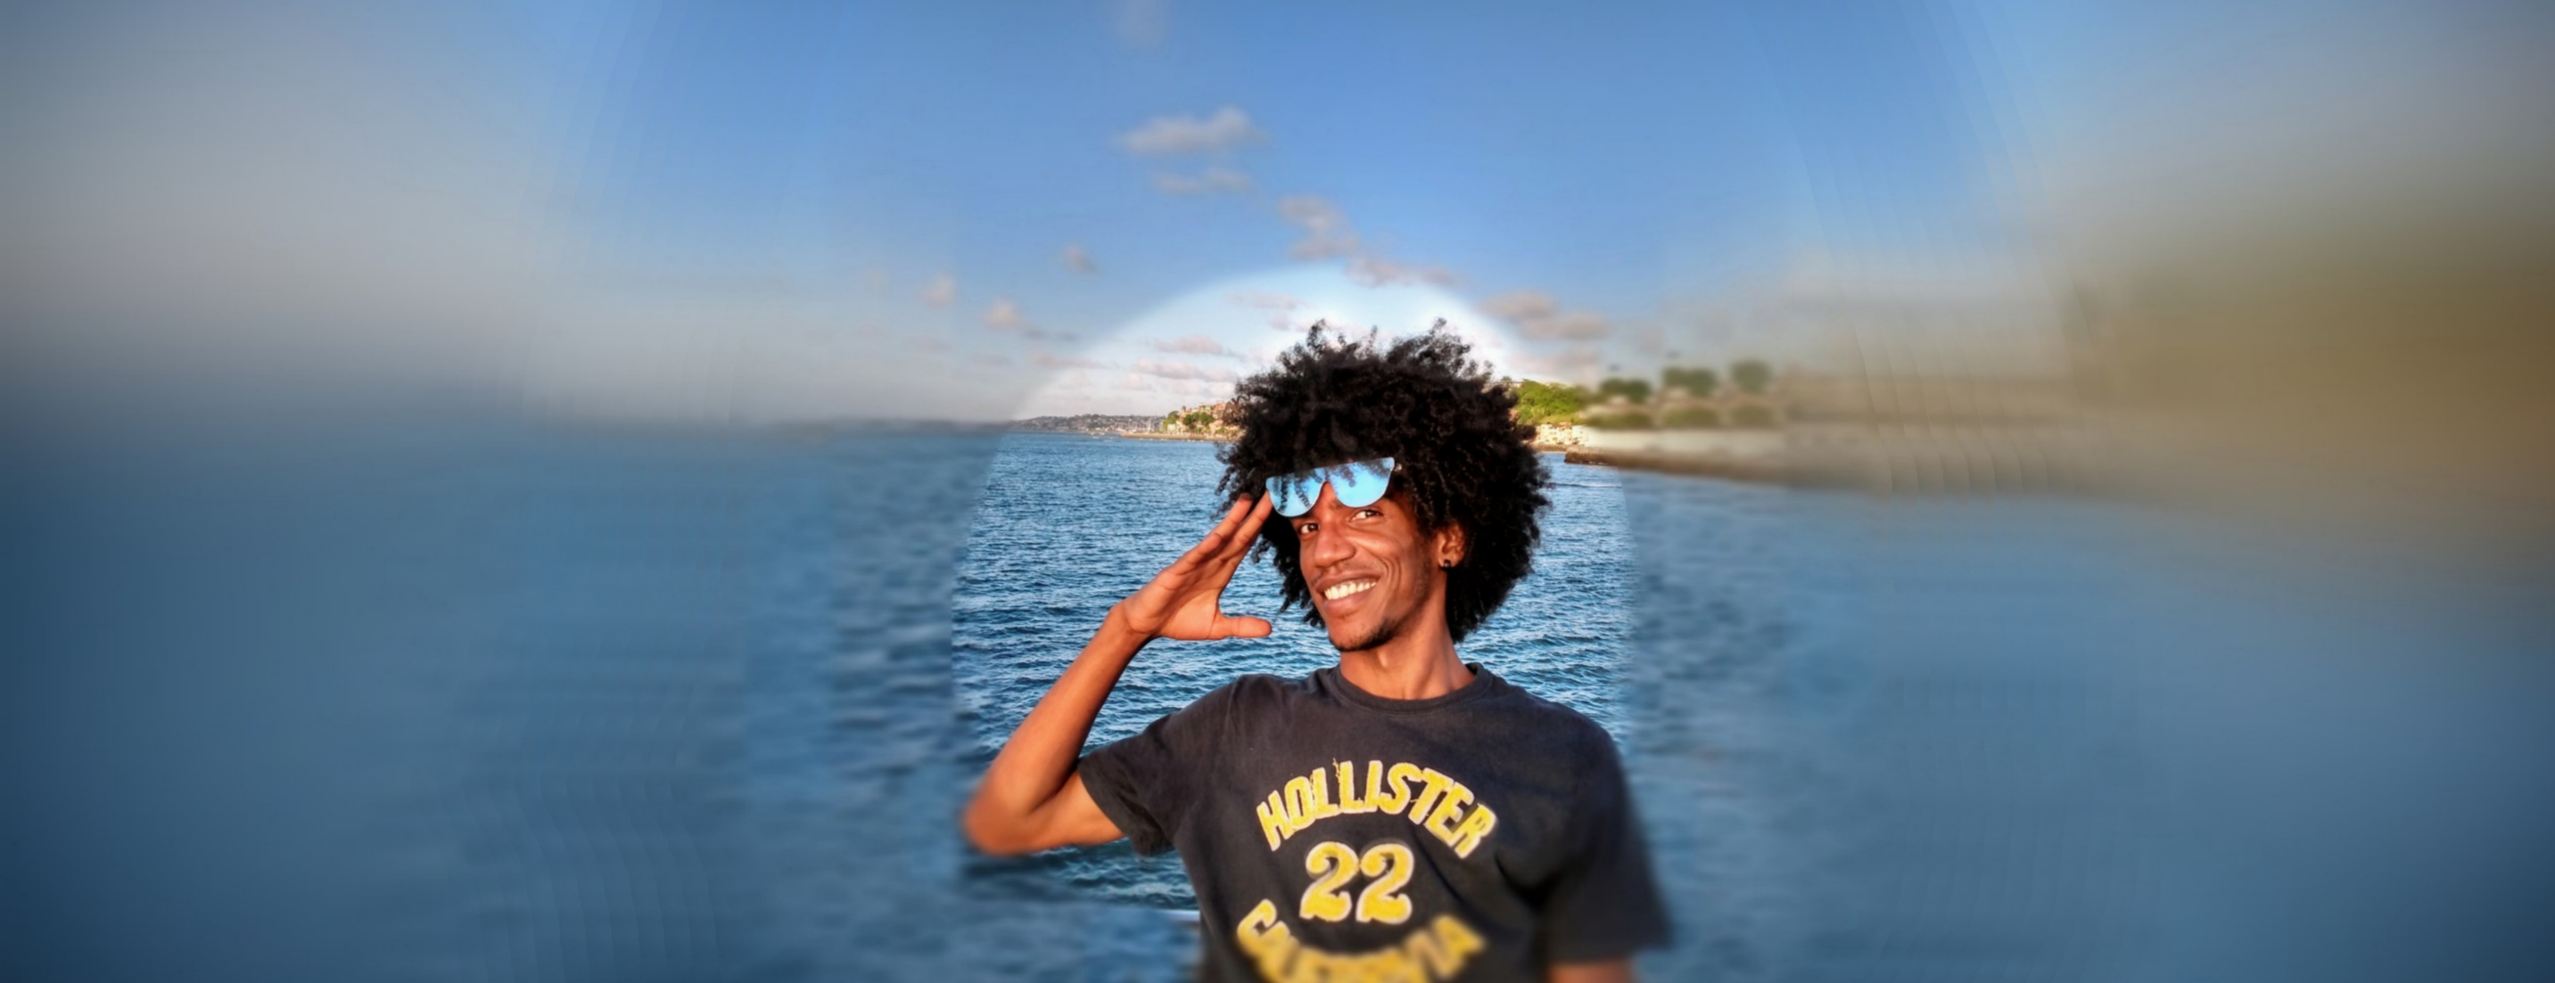
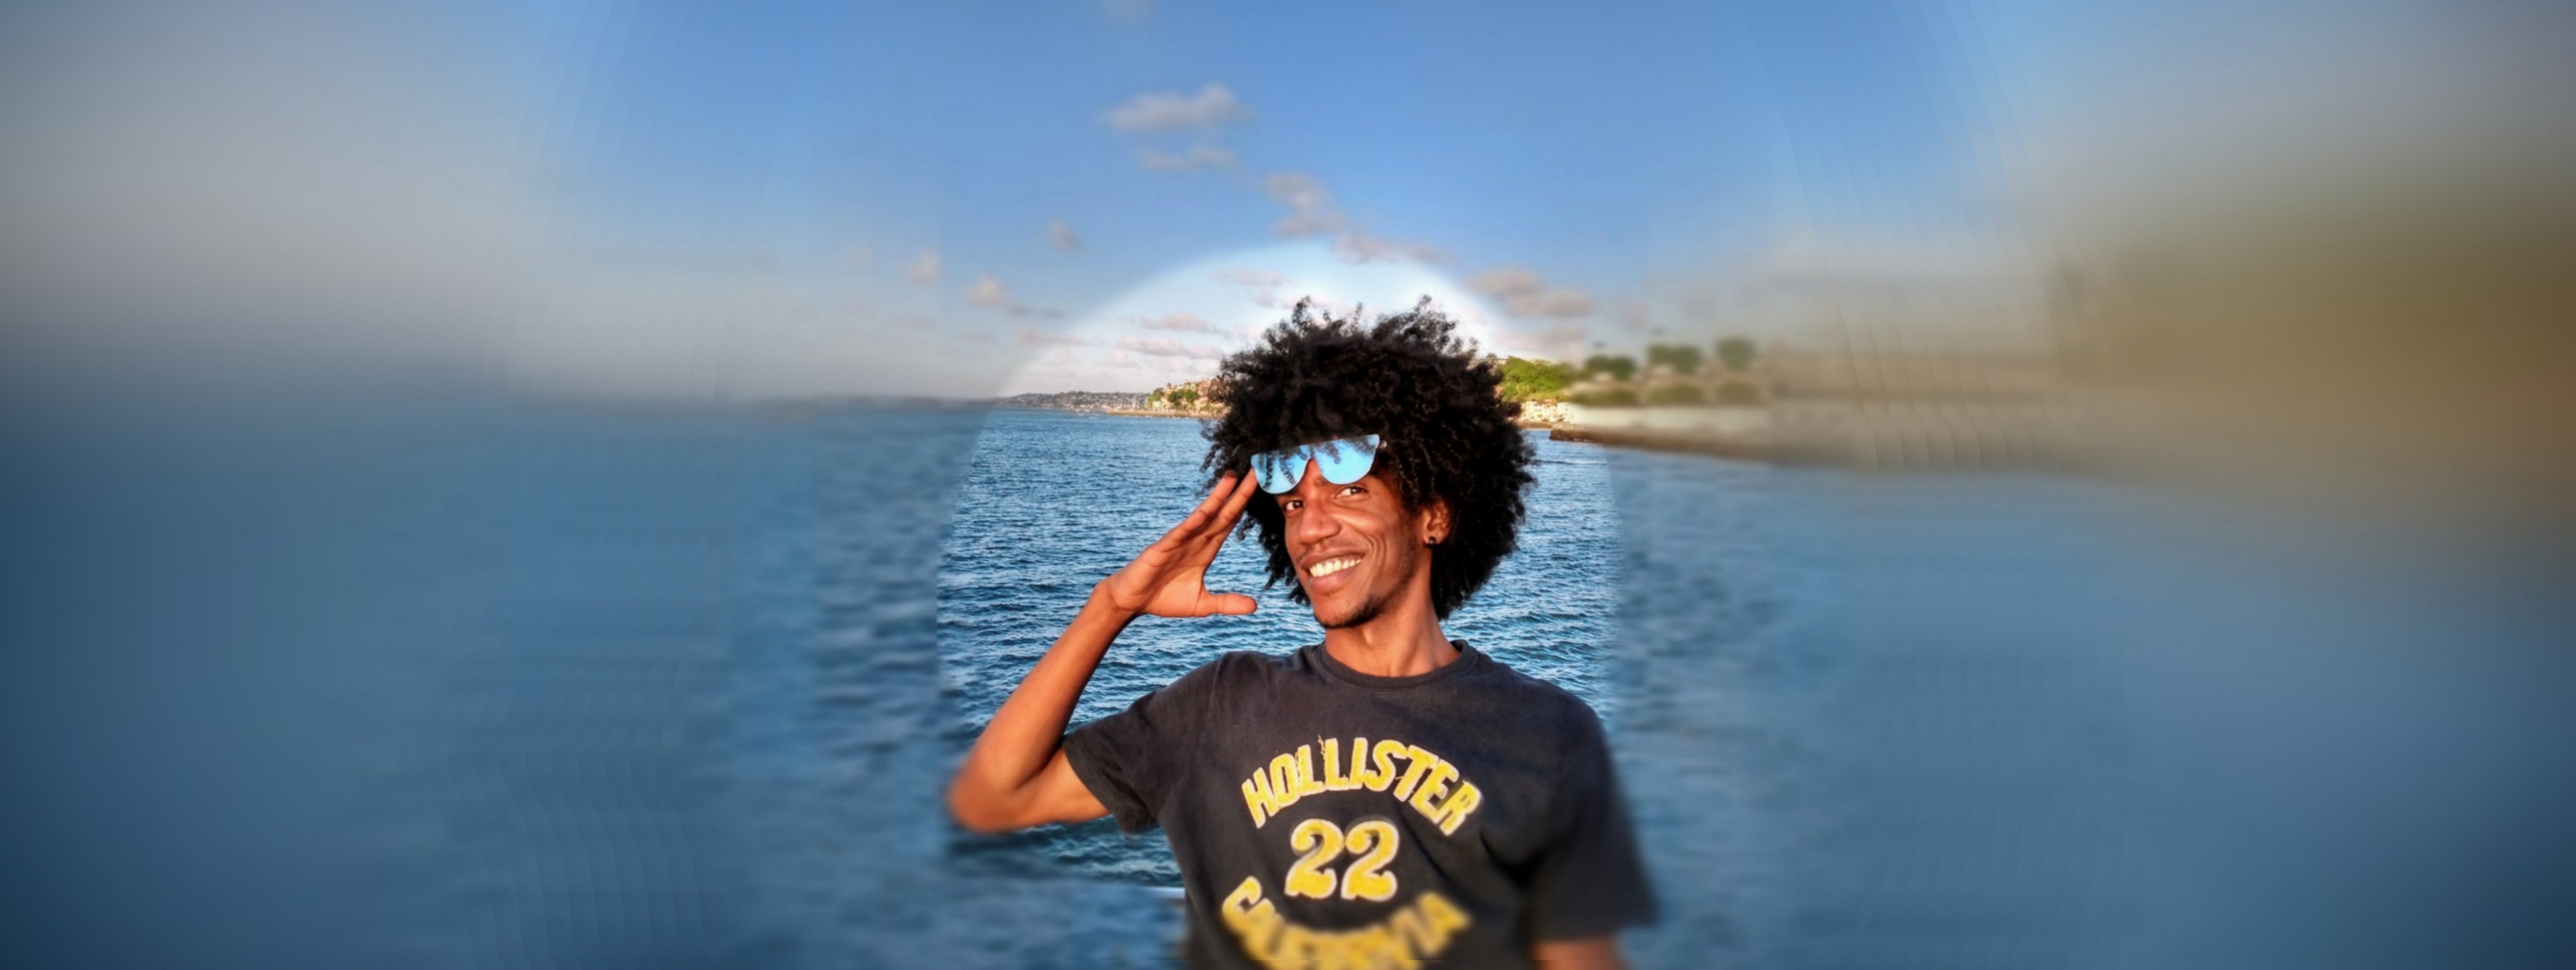
added: secretBG, improved: Background-dif

diff --git a/src/components/Body.jsx b/src/components/Body.jsx
@@ -9,12 +9,24 @@ import Games from "./Games/Games";
 import Paintings from "./Paintings/Paintings";
 import Musings from "./Musings/Musings";
 import Coding from "./Coding/Coding";
+import { useState } from "react/cjs/react.development";
 
 function Body() {
   const location = useLocation();
 
+  const [secretBG, showSecretBG] = useState(false);
+  const setSecretBG = () => {
+    showSecretBG(true);
+  };
+
   function changeBackground() {
-    const num = Math.ceil(Math.random() * 3);
+    let key = 3;
+    if (secretBG) {
+      key = 0;
+      document.body.style.setProperty("color", "white");
+      document.body.style.setProperty("background-color", "rgb(214, 158, 5)");
+    }
+    const num = Math.ceil(Math.random() * key);
 
     function setBackgroundPosition(position) {
       document.body.style.setProperty("background-position", position);
@@ -76,6 +88,11 @@ function Body() {
     <div>
       <div className="container">
         <Bar menus={menus}></Bar>
+        {location.pathname === "/" && (
+          <div className="row secretBG-row">
+            <button className="secretBG-button" onClick={setSecretBG}></button>
+          </div>
+        )}
         {menus.map(({ href, title }) => (
           <Route path={href} key={title}>
             {renderMenuComponent(title)}

diff --git a/src/assets/index.css b/src/assets/index.css
@@ -18,6 +18,7 @@ body {
   padding: min(100px, 5vw);
   background-color: rgb(4, 106, 173);
   font-family: "Carter One", sans-serif;
+  color: rgb(0, 0, 0);
 }
 
 .buttonbar {
@@ -81,6 +82,23 @@ div[class*="box"] {
 .btn-three:hover::after {
   opacity: 1;
   transform: scale(1, 1);
+}
+
+.secretBG-row {
+  display: flex;
+  align-items: center;
+  justify-content: space-around;
+  position: relative;
+  margin-top: 33vh;
+}
+
+.secretBG-button {
+  padding: 0;
+  border: none;
+  width: 5rem;
+  height: 5rem;
+  position: absolute;
+  background-color: transparent;
 }
 
 /* Animação SVG*/
@@ -257,7 +275,6 @@ div[class*="box"] {
   width: min(540px, 50%);
   top: 28%;
   text-align: center;
-  color: rgb(0, 0, 0);
 }
 
 .timer {
@@ -596,7 +613,6 @@ div[class*="box"] {
 
 .modal-fit-content {
   height: fit-content;
-  top: 50;
 }
 
 .modal-scroll {

diff --git a/src/components/Paintings/Painting.jsx b/src/components/Paintings/Painting.jsx
@@ -1,4 +1,4 @@
-import { useState } from "react";
+import React, { useEffect, useState } from "react";
 import Arrow from "./arrow.svg";
 import Zoomer from "./Zoomer";
 
@@ -21,6 +21,19 @@ function Painting({
       manipulateEgg(false);
     }
   };
+
+  const [varZoomer, setZoomer] = useState(image);
+
+  useEffect(() => {
+    const intervalId = setInterval(function () {
+      if (varZoomer !== image) setZoomer(image);
+    }, 1000);
+    return () => {
+      clearInterval(intervalId);
+    };
+  }, []);
+
+  console.log(image);
 
   return (
     <div className="painting">

diff --git a/src/components/Paintings/Zoomer.jsx b/src/components/Paintings/Zoomer.jsx
@@ -12,8 +12,10 @@ class Zoomer extends Component {
   }
 
   render() {
-    const { image } = this.state;
-    const { largeImage } = this.state;
+    let { image } = this.state;
+    let { largeImage } = this.state;
+    console.log(image);
+    console.log(largeImage);
     return (
       <div>
         <SideBySideMagnifier
